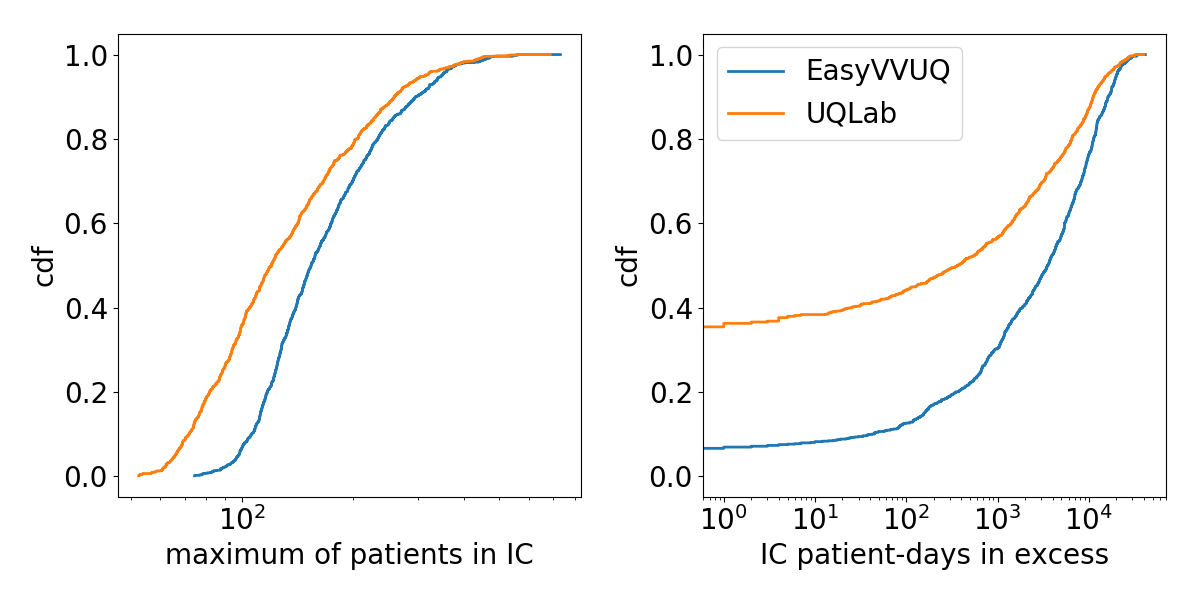
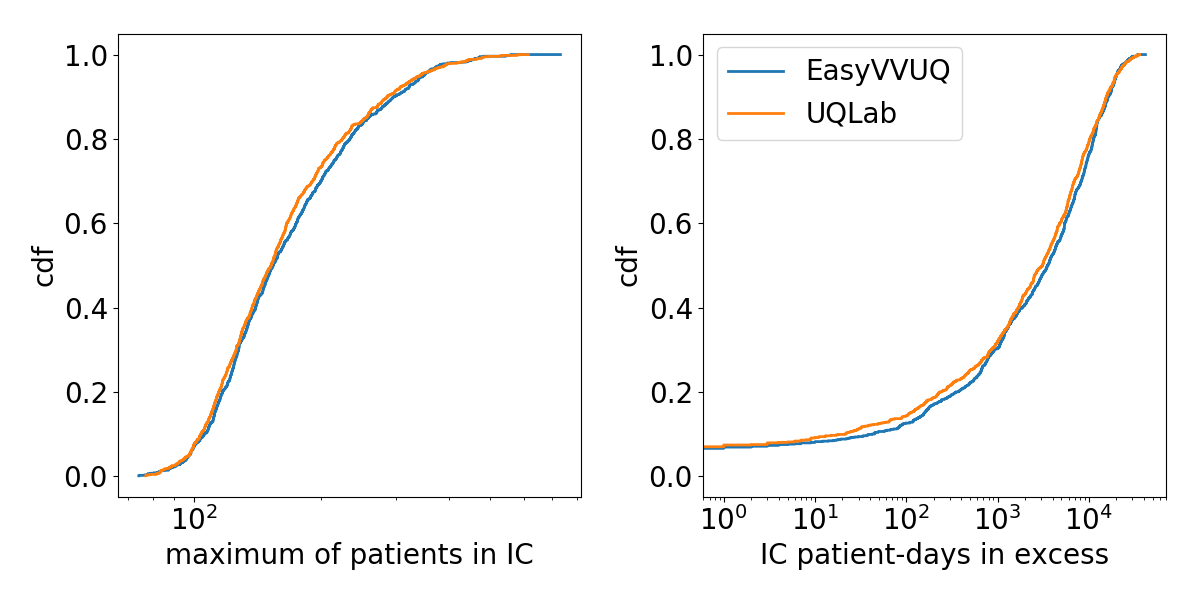
update comparison for PO

diff --git a/EasyVVUQ/compare_cdf.py b/EasyVVUQ/compare_cdf.py
@@ -170,7 +170,7 @@ IC_prev_max_PO.sort()
 #################################
 # Load data from UQLab campaign #
 #################################
-QoI_UQLab_PO = pd.read_csv('../UQLab/runs_Cartesius/PO_MC960/PO960_QoI.csv',delimiter=',',header=None)
+QoI_UQLab_PO = pd.read_csv('../UQLab/runs_Cartesius/PO_MC960/PO960_QoI_v2.csv',delimiter=',',header=None)
 
 n_runs_UQLab = 960
 p_UQLab = np.arange(start=1,stop=n_runs_UQLab+1,step=1)/n_runs_UQLab
